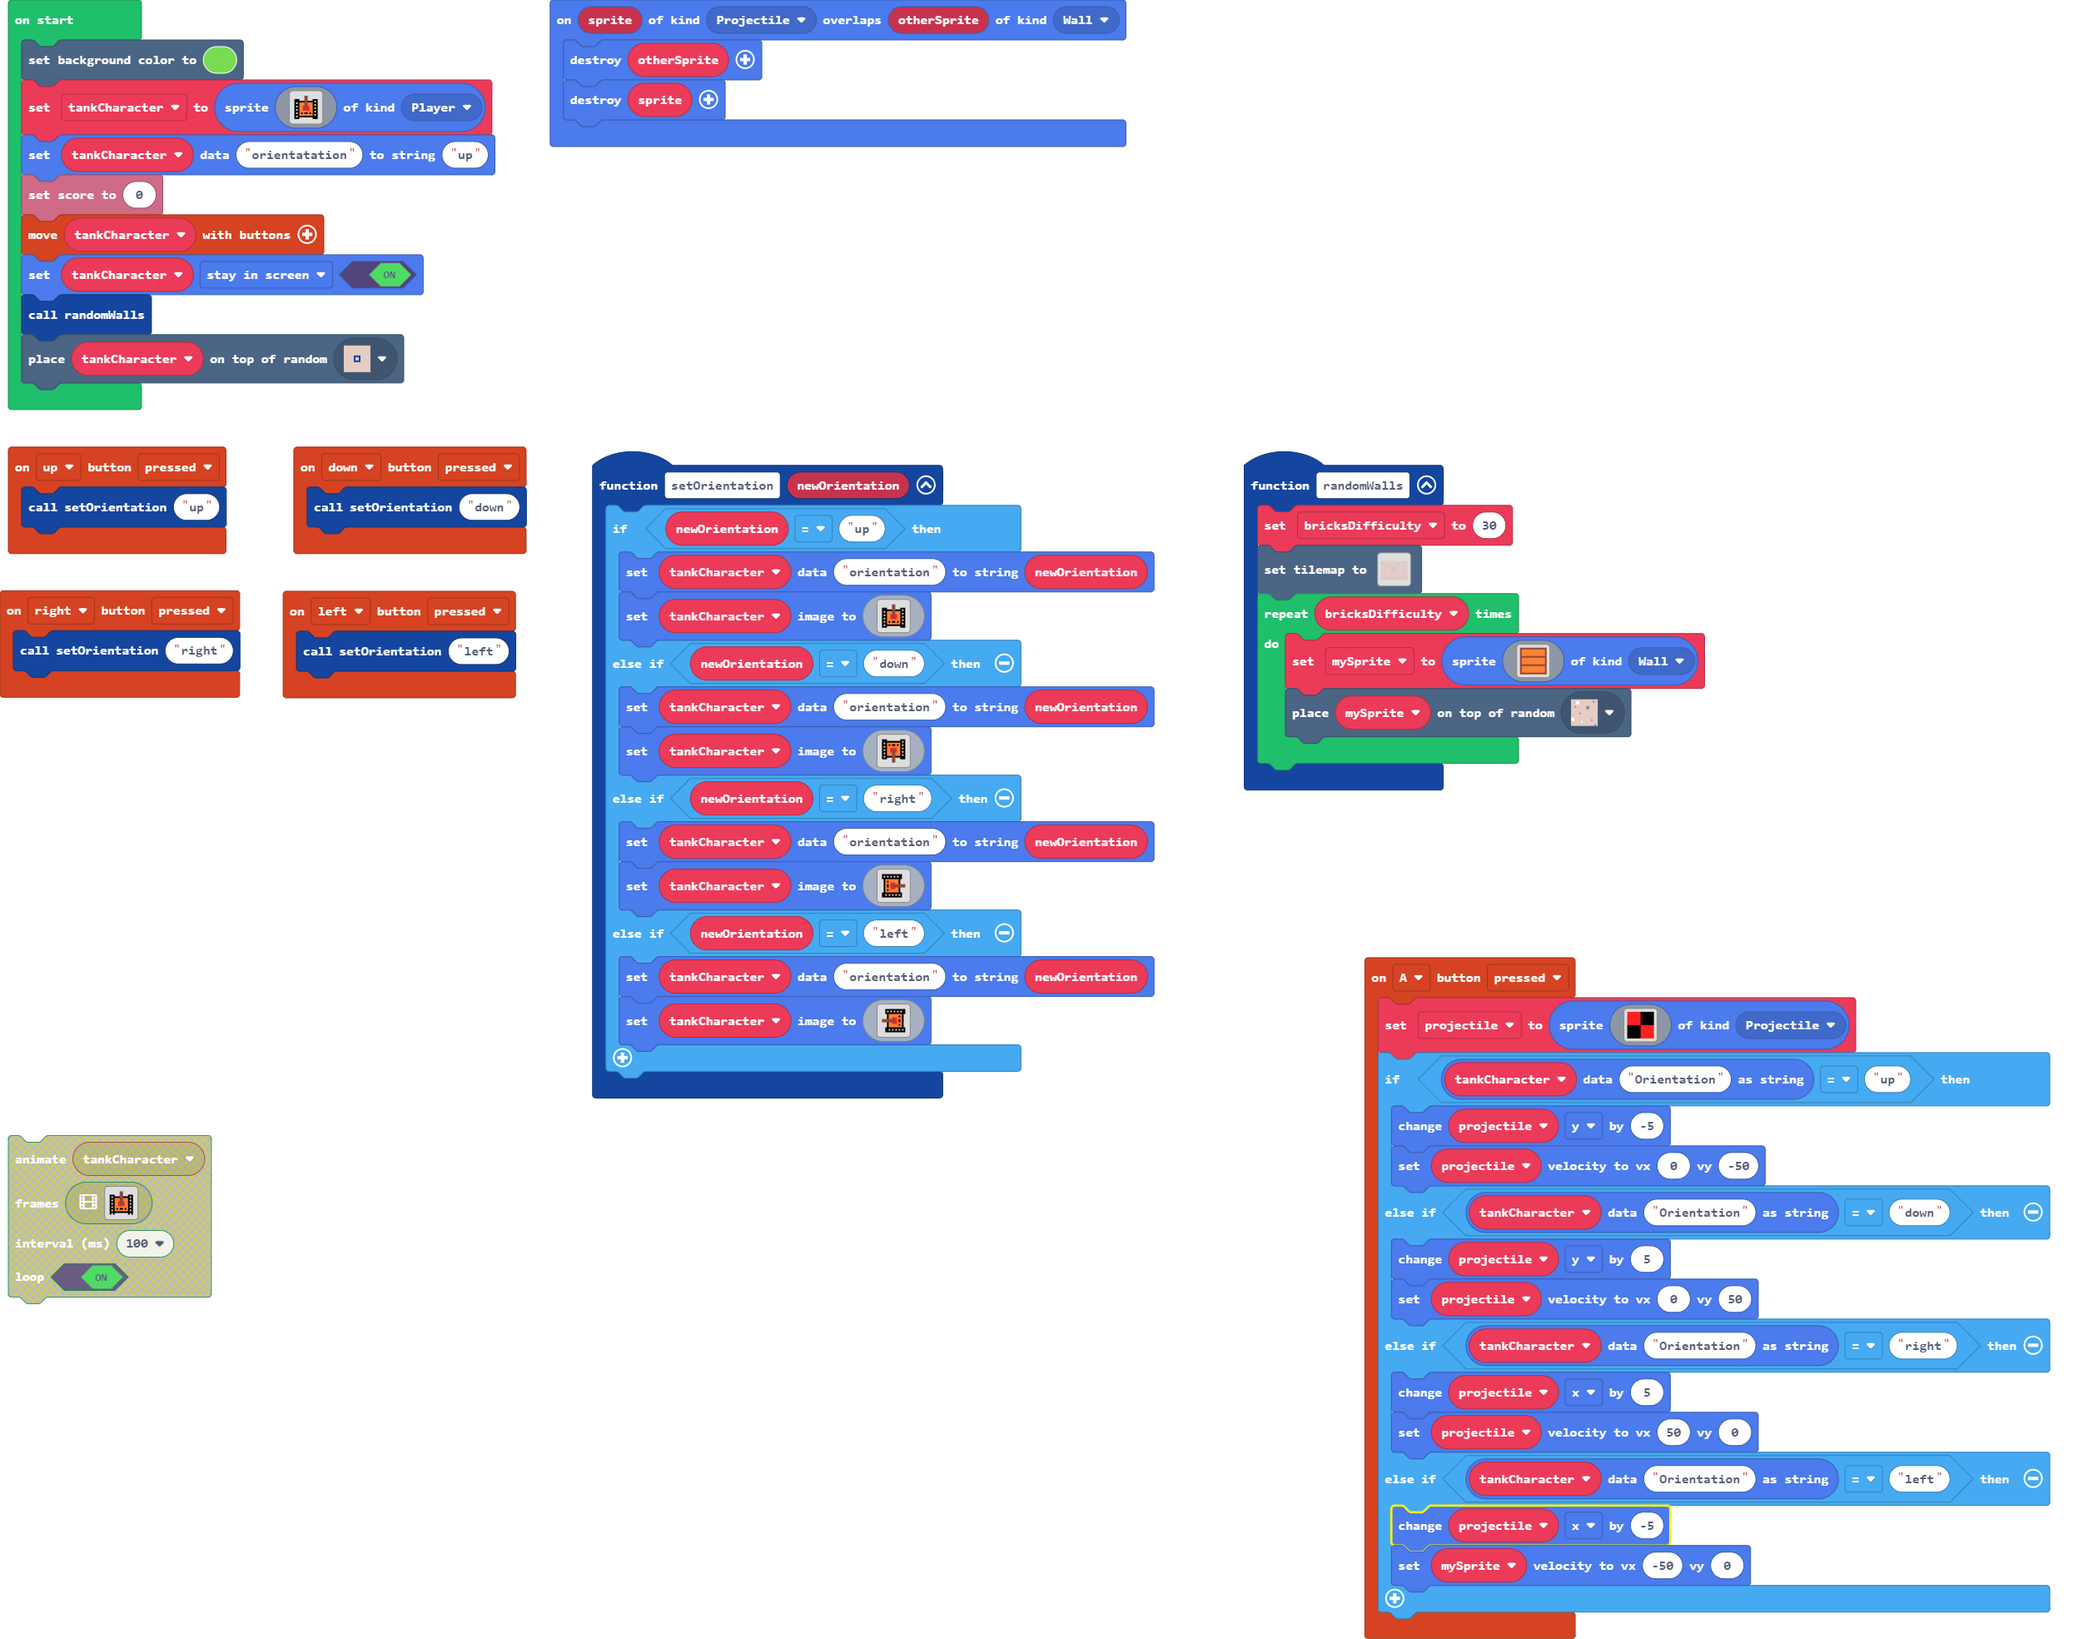
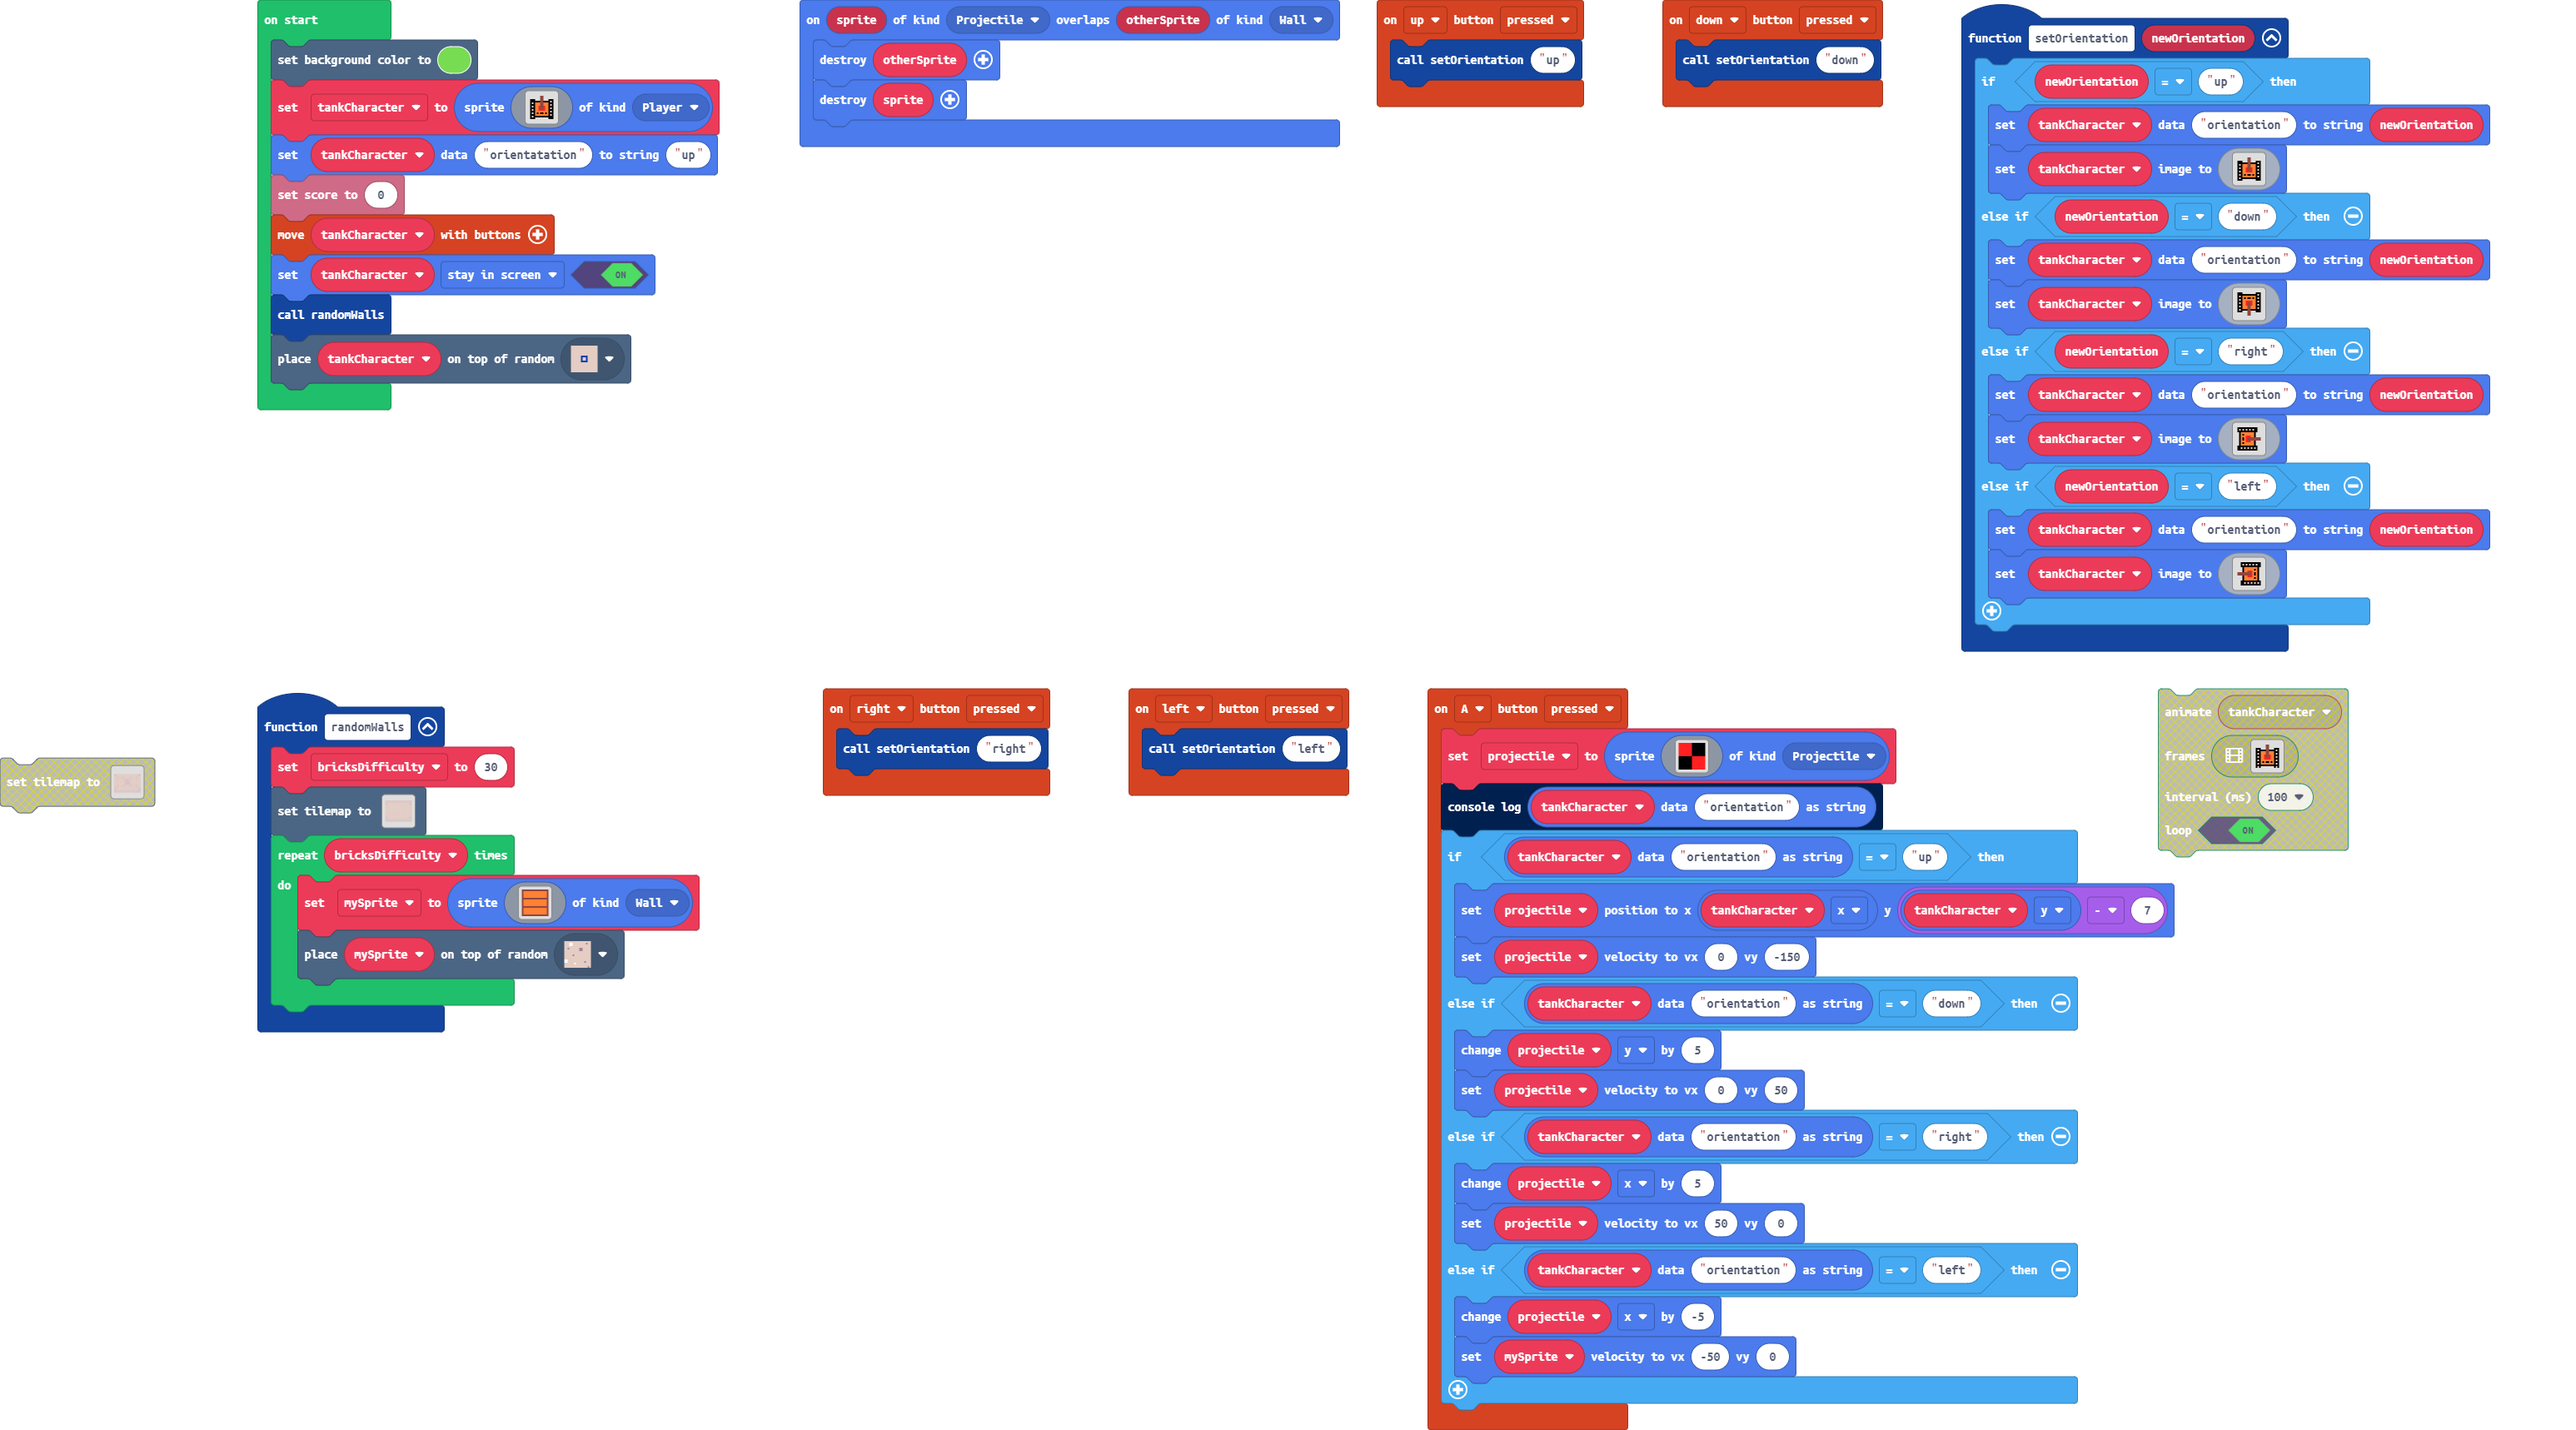
fixed code, ^^

diff --git a/main.ts b/main.ts
@@ -92,16 +92,17 @@ controller.A.onEvent(ControllerButtonEvent.Pressed, function () {
         2 f 
         f 2 
         `, SpriteKind.Projectile)
-    if (sprites.readDataString(tankCharacter, "Orientation") == "up") {
-        projectile.y += -5
-        projectile.setVelocity(0, -50)
-    } else if (sprites.readDataString(tankCharacter, "Orientation") == "down") {
+    console.log(sprites.readDataString(tankCharacter, "orientation"))
+    if (sprites.readDataString(tankCharacter, "orientation") == "up") {
+        projectile.setPosition(tankCharacter.x, tankCharacter.y - 7)
+        projectile.setVelocity(0, -150)
+    } else if (sprites.readDataString(tankCharacter, "orientation") == "down") {
         projectile.y += 5
         projectile.setVelocity(0, 50)
-    } else if (sprites.readDataString(tankCharacter, "Orientation") == "right") {
+    } else if (sprites.readDataString(tankCharacter, "orientation") == "right") {
         projectile.x += 5
         projectile.setVelocity(50, 0)
-    } else if (sprites.readDataString(tankCharacter, "Orientation") == "left") {
+    } else if (sprites.readDataString(tankCharacter, "orientation") == "left") {
         projectile.x += -5
         mySprite.setVelocity(-50, 0)
     }
@@ -114,16 +115,16 @@ controller.right.onEvent(ControllerButtonEvent.Pressed, function () {
 })
 function randomWalls () {
     bricksDifficulty = 30
[2 lines of base64/hex data omitted]
         2 2 2 2 2 2 2 2 2 2 
         . . . . . . . . . . 
-        . 2 . 2 . . 2 . 2 . 
         . . . . . . . . . . 
         . . . . . . . . . . 
-        . 2 . 2 . . 2 . 2 . 
+        . . . . . . . . . . 
+        . . . . . . . . . . 
         . . . . . . . . . . 
         2 2 2 2 2 2 2 2 2 2 
-        `, [myTiles.transparency16,sprites.castle.tilePath5,sprites.dungeon.floorLight0,sprites.dungeon.floorLight1,myTiles.tile3], TileScale.Sixteen))
+        `, [myTiles.transparency16,sprites.castle.tilePath5,sprites.dungeon.floorLight0,myTiles.tile3], TileScale.Sixteen))
     for (let index = 0; index < bricksDifficulty; index++) {
         mySprite = sprites.create(img`
             e e e e e e e e e e e e e e e e 
